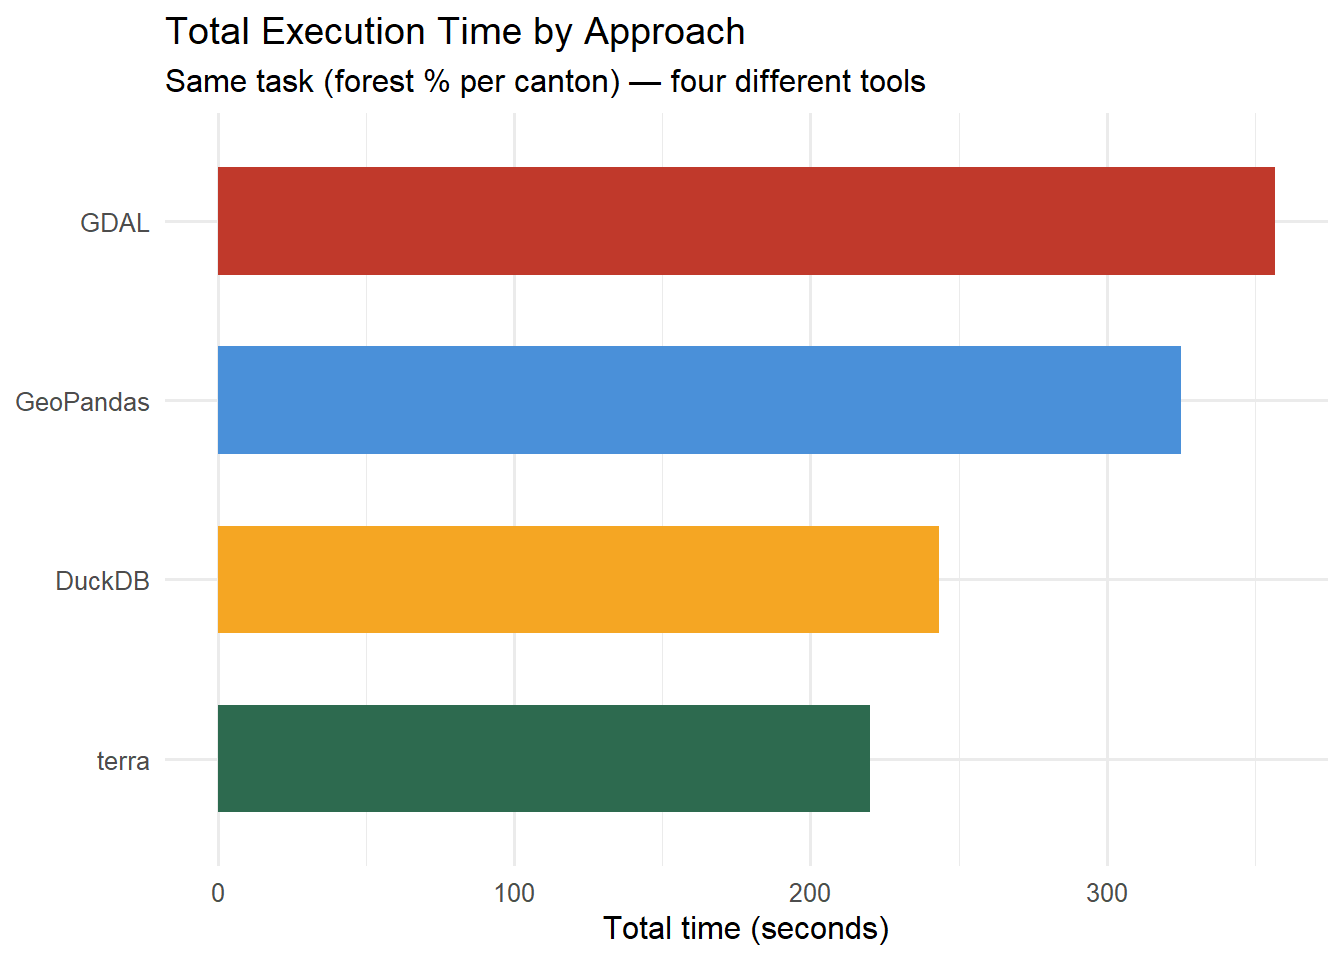
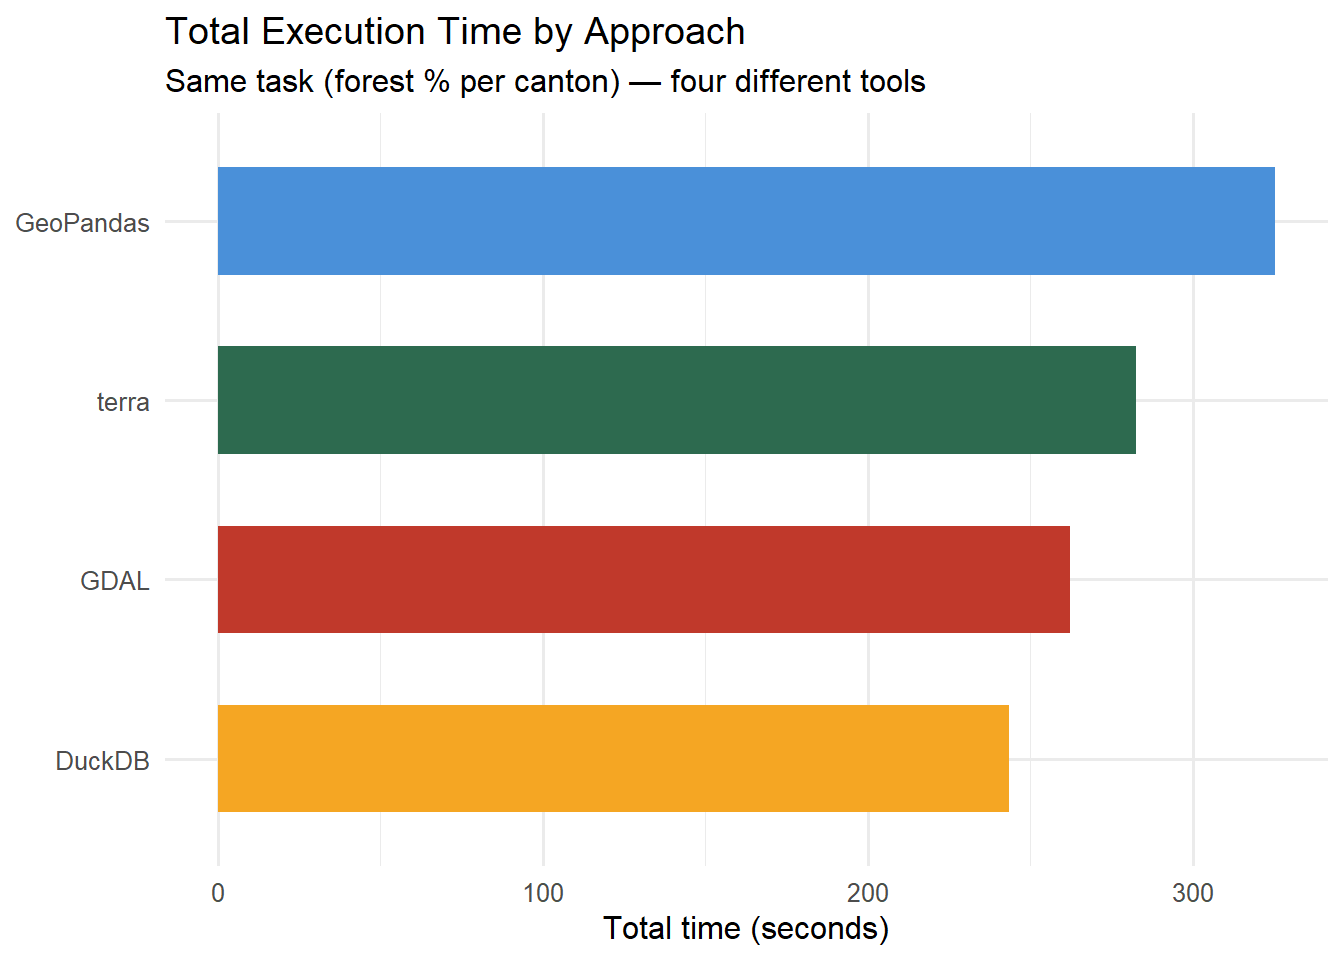
push

diff --git a/docs/index.html b/docs/index.html
@@ -264,7 +264,7 @@ pre > code.sourceCode > span > a:first-child::before { text-decoration: underlin
 <span id="cb12-3"><a href="#cb12-3" aria-hidden="true" tabindex="-1"></a>tictoc<span class="sc">::</span><span class="fu">toc</span>(<span class="at">log =</span> <span class="cn">TRUE</span>)</span></code></pre></div><button title="Copy to Clipboard" class="code-copy-button"><i class="bi"></i></button></div>
 </details>
 <div class="cell-output cell-output-stdout">
-<pre><code>terra | Step 2: Load and filter forest polygons: 25.87 sec elapsed</code></pre>
+<pre><code>terra | Step 2: Load and filter forest polygons: 17.81 sec elapsed</code></pre>
 </div>
 <details class="code-fold">
 <summary>Code</summary>
@@ -333,7 +333,7 @@ pre > code.sourceCode > span > a:first-child::before { text-decoration: underlin
 <span id="cb24-7"><a href="#cb24-7" aria-hidden="true" tabindex="-1"></a>tictoc<span class="sc">::</span><span class="fu">toc</span>(<span class="at">log =</span> <span class="cn">TRUE</span>)</span></code></pre></div><button title="Copy to Clipboard" class="code-copy-button"><i class="bi"></i></button></div>
 </details>
 <div class="cell-output cell-output-stdout">
-<pre><code>terra | Step 4: Intersect forest with cantons: 144.74 sec elapsed</code></pre>
+<pre><code>terra | Step 4: Intersect forest with cantons: 189.52 sec elapsed</code></pre>
 </div>
 <details class="code-fold">
 <summary>Code</summary>
@@ -376,7 +376,7 @@ pre > code.sourceCode > span > a:first-child::before { text-decoration: underlin
 <span id="cb28-25"><a href="#cb28-25" aria-hidden="true" tabindex="-1"></a>tictoc<span class="sc">::</span><span class="fu">toc</span>(<span class="at">log =</span> <span class="cn">TRUE</span>)</span></code></pre></div><button title="Copy to Clipboard" class="code-copy-button"><i class="bi"></i></button></div>
 </details>
 <div class="cell-output cell-output-stdout">
-<pre><code>terra | Step 5: Calculate forest % per canton: 49.25 sec elapsed</code></pre>
+<pre><code>terra | Step 5: Calculate forest % per canton: 75.14 sec elapsed</code></pre>
 </div>
 </div>
 </section>
@@ -630,7 +630,7 @@ pre > code.sourceCode > span > a:first-child::before { text-decoration: underlin
 <span id="cb32-16"><a href="#cb32-16" aria-hidden="true" tabindex="-1"></a>tictoc<span class="sc">::</span><span class="fu">toc</span>(<span class="at">log =</span> <span class="cn">TRUE</span>)</span></code></pre></div><button title="Copy to Clipboard" class="code-copy-button"><i class="bi"></i></button></div>
 </details>
 <div class="cell-output cell-output-stdout">
-<pre><code>gdal | Step 1: Export cantons via GDAL (ogr2ogr): 0.38 sec elapsed</code></pre>
+<pre><code>gdal | Step 1: Export cantons via GDAL (ogr2ogr): 0.28 sec elapsed</code></pre>
 </div>
 <details class="code-fold">
 <summary>Code</summary>
@@ -665,7 +665,7 @@ pre > code.sourceCode > span > a:first-child::before { text-decoration: underlin
 <span id="cb36-17"><a href="#cb36-17" aria-hidden="true" tabindex="-1"></a>tictoc<span class="sc">::</span><span class="fu">toc</span>(<span class="at">log =</span> <span class="cn">TRUE</span>)</span></code></pre></div><button title="Copy to Clipboard" class="code-copy-button"><i class="bi"></i></button></div>
 </details>
 <div class="cell-output cell-output-stdout">
-<pre><code>gdal | Step 2: Extract forest polygons via GDAL: 31.72 sec elapsed</code></pre>
+<pre><code>gdal | Step 2: Extract forest polygons via GDAL: 21.77 sec elapsed</code></pre>
 </div>
 <details class="code-fold">
 <summary>Code</summary>
@@ -705,7 +705,7 @@ all geometries</code></pre>
 <span id="cb42-7"><a href="#cb42-7" aria-hidden="true" tabindex="-1"></a>tictoc<span class="sc">::</span><span class="fu">toc</span>(<span class="at">log =</span> <span class="cn">TRUE</span>)</span></code></pre></div><button title="Copy to Clipboard" class="code-copy-button"><i class="bi"></i></button></div>
 </details>
 <div class="cell-output cell-output-stdout">
-<pre><code>gdal | Step 3: Spatial intersection via sf (GDAL backend): 324.42 sec elapsed</code></pre>
+<pre><code>gdal | Step 3: Spatial intersection via sf (GDAL backend): 239.77 sec elapsed</code></pre>
 </div>
 <details class="code-fold">
 <summary>Code</summary>
@@ -766,7 +766,7 @@ all geometries</code></pre>
 <span id="cb50-16"><a href="#cb50-16" aria-hidden="true" tabindex="-1"></a>tictoc<span class="sc">::</span><span class="fu">toc</span>(<span class="at">log =</span> <span class="cn">TRUE</span>)</span></code></pre></div><button title="Copy to Clipboard" class="code-copy-button"><i class="bi"></i></button></div>
 </details>
 <div class="cell-output cell-output-stdout">
-<pre><code>gdal | Step 5: Join and compute percentages in R: 0.07 sec elapsed</code></pre>
+<pre><code>gdal | Step 5: Join and compute percentages in R: 0.2 sec elapsed</code></pre>
 </div>
 </div>
 <div class="cell">
@@ -1018,7 +1018,7 @@ all geometries</code></pre>
 </tr>
 <tr class="even">
 <td style="text-align: left;">terra | Step 2: Load and filter forest polygons</td>
-<td style="text-align: right;">25.87</td>
+<td style="text-align: right;">17.81</td>
 <td style="text-align: left;">terra</td>
 </tr>
 <tr class="odd">
@@ -1028,27 +1028,27 @@ all geometries</code></pre>
 </tr>
 <tr class="even">
 <td style="text-align: left;">terra | Step 4: Intersect forest with cantons</td>
-<td style="text-align: right;">144.74</td>
+<td style="text-align: right;">189.52</td>
 <td style="text-align: left;">terra</td>
 </tr>
 <tr class="odd">
 <td style="text-align: left;">terra | Step 5: Calculate forest % per canton</td>
-<td style="text-align: right;">49.25</td>
+<td style="text-align: right;">75.14</td>
 <td style="text-align: left;">terra</td>
 </tr>
 <tr class="even">
 <td style="text-align: left;">gdal | Step 1: Export cantons via GDAL (ogr2ogr)</td>
-<td style="text-align: right;">0.38</td>
+<td style="text-align: right;">0.28</td>
 <td style="text-align: left;">GDAL</td>
 </tr>
 <tr class="odd">
 <td style="text-align: left;">gdal | Step 2: Extract forest polygons via GDAL</td>
-<td style="text-align: right;">31.72</td>
+<td style="text-align: right;">21.77</td>
 <td style="text-align: left;">GDAL</td>
 </tr>
 <tr class="even">
 <td style="text-align: left;">gdal | Step 3: Spatial intersection via sf (GDAL backend)</td>
-<td style="text-align: right;">324.42</td>
+<td style="text-align: right;">239.77</td>
 <td style="text-align: left;">GDAL</td>
 </tr>
 <tr class="odd">
@@ -1058,7 +1058,7 @@ all geometries</code></pre>
 </tr>
 <tr class="even">
 <td style="text-align: left;">gdal | Step 5: Join and compute percentages in R</td>
-<td style="text-align: right;">0.07</td>
+<td style="text-align: right;">0.20</td>
 <td style="text-align: left;">GDAL</td>
 </tr>
 </tbody>
@@ -1102,20 +1102,20 @@ all geometries</code></pre>
 </thead>
 <tbody>
 <tr class="odd">
-<td style="text-align: left;">terra</td>
-<td style="text-align: right;">219.97</td>
-</tr>
-<tr class="even">
 <td style="text-align: left;">DuckDB</td>
 <td style="text-align: right;">243.29</td>
 </tr>
-<tr class="odd">
-<td style="text-align: left;">GeoPandas</td>
-<td style="text-align: right;">325.12</td>
-</tr>
 <tr class="even">
 <td style="text-align: left;">GDAL</td>
-<td style="text-align: right;">356.61</td>
+<td style="text-align: right;">262.04</td>
+</tr>
+<tr class="odd">
+<td style="text-align: left;">terra</td>
+<td style="text-align: right;">282.58</td>
+</tr>
+<tr class="even">
+<td style="text-align: left;">GeoPandas</td>
+<td style="text-align: right;">325.12</td>
 </tr>
 </tbody>
 </table>
